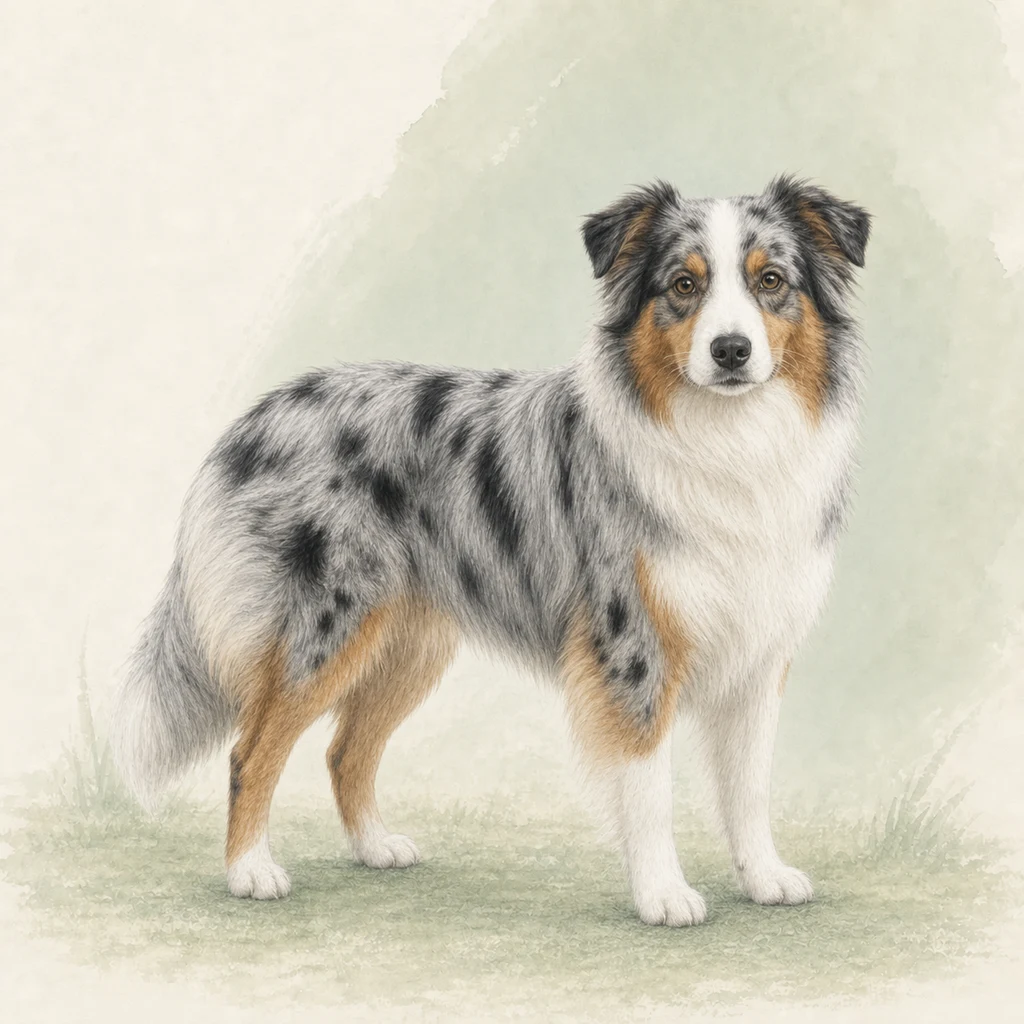
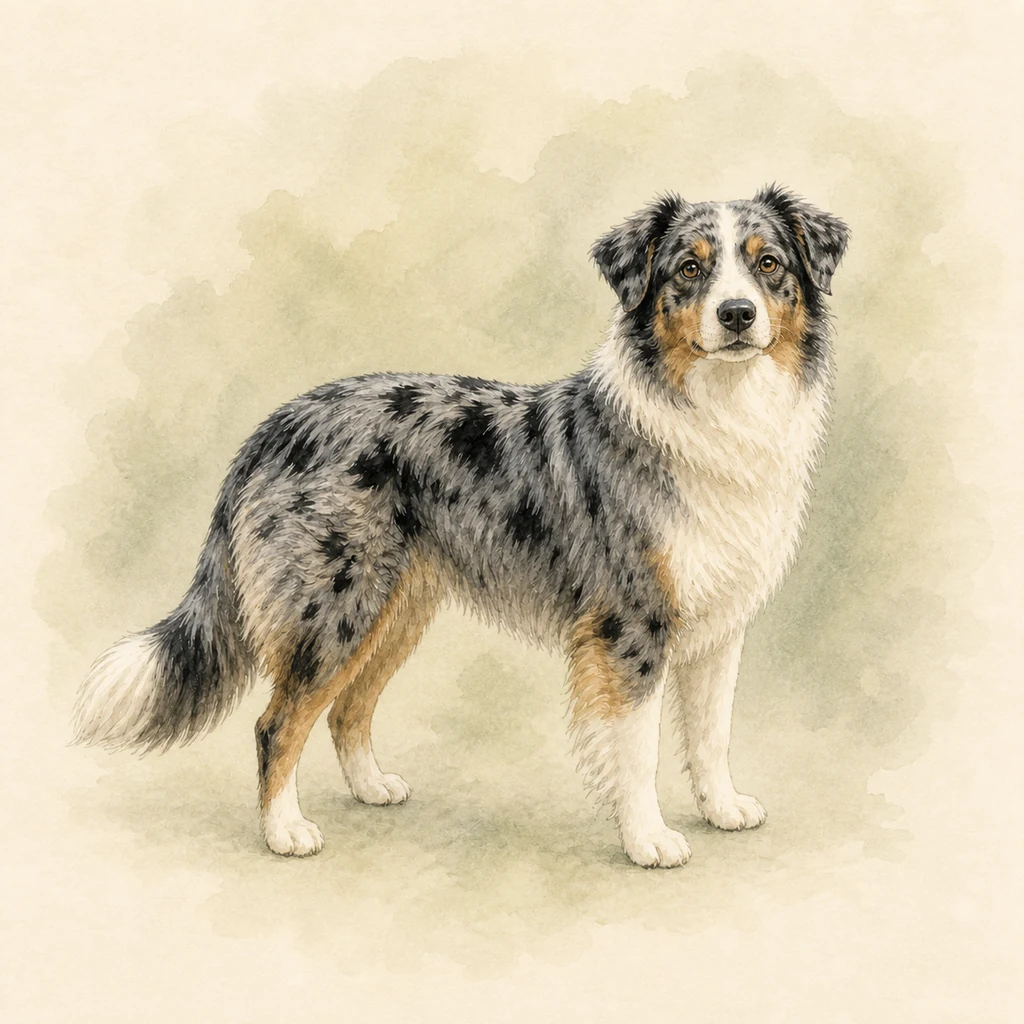
Correct breed feature and fact hierarchy

diff --git a/src/content/breed-features/data.ts b/src/content/breed-features/data.ts
@@ -873,20 +873,20 @@ export const breedFeatureSets = breedFeatureCollectionSchema.parse([
   },
   {
     slug: "bernese-mountain-dog",
-    intro: "스위스 농장에서 맡았던 운반과 소몰이, 큰 몸의 힘을 조절하는 방식, 장모 삼색 이중모의 특징을 먼저 살펴보세요.",
+    intro: "사람 가까이에서 보조를 맞추는 성향, 큰 몸의 힘을 조절하는 방식, 장모 삼색 이중모의 특징을 먼저 살펴보세요.",
     cards: [
       {
-        eyebrow: "수레와 농장 일",
-        title: "소를 몰고 수레를 끌며 농장의 여러 일을 함께했어요.",
-        description: "버니즈 마운틴 독은 베른 주변 농가에서 경비뿐 아니라 가축을 이동시키고 우유나 치즈를 실은 작은 수레를 끄는 다목적견으로 일했습니다. 빠른 속도보다 사람 곁에서 꾸준히 힘을 쓰는 역할이 이 견종의 배경을 잘 보여줘요.",
-        image: "/illustrations/v4/bernese-mountain-dog-feature-draft-work.webp",
-        alt: "스위스 산악 농장의 완만한 길에서 우유통을 실은 작은 수레를 차분히 끄는 성견 버니즈 마운틴 독 삽화",
+        eyebrow: "사람과 보조 맞추기",
+        title: "가족 가까이에서 함께 움직이고 맡은 일에 참여하려 할 수 있어요.",
+        description: "사람 곁에서 여러 일을 보조하던 배경은 오늘의 생활에서 가족의 움직임을 따라다니거나 함께하는 과제에 차분히 참여하는 모습으로 나타날 수 있어요. 가벼운 물건 찾기나 옮기기처럼 속도보다 협업에 집중하는 활동을 마련해보세요.",
+        image: "/illustrations/v4/bernese-mountain-dog-feature-shared-task.webp",
+        alt: "현대의 정원에서 보호자 곁을 걸으며 가벼운 천 바구니를 옮기는 성견 버니즈 마운틴 독 삽화",
         sourceUrls: ["https://www.fci.be/Nomenclature/Standards/045g02-en.pdf", "https://www.royalkennelclub.com/search/breeds-a-to-z/breeds/working/bernese-mountain-dog/"],
       },
       {
         eyebrow: "차분한 힘",
-        title: "큰 몸을 빠르게 쓰기보다 사람과 보조를 맞추는 힘이 중요했어요.",
-        description: "무거운 몸과 힘을 지닌 개가 농장 안에서 안전하게 일하려면 방향을 바꾸고 멈추는 신호에 협력하는 능력이 필요했습니다. 오늘의 생활에서도 넓은 회전 공간과 느슨한 리드, 천천히 멈추는 경험을 일찍 익히면 큰 체격을 다루는 데 도움이 돼요.",
+        title: "큰 몸과 힘을 천천히 멈추고 방향을 바꾸는 연습이 중요해요.",
+        description: "차분해 보이는 개체도 성견이 되면 몸의 무게와 힘만으로 좁은 동선이나 인사 상황에 부담을 줄 수 있어요. 넓은 회전 공간과 느슨한 리드, 천천히 멈추는 경험을 일찍 익히면 사람과 안전하게 보조를 맞추는 데 도움이 됩니다.",
         image: "/illustrations/v4/bernese-mountain-dog-feature-controlled-strength.webp",
         alt: "넓은 농장 마당의 두 표식 사이를 지난 뒤 보호자 곁에서 차분히 멈춘 성견 버니즈 마운틴 독 삽화",
         sourceUrls: ["https://www.fci.be/Nomenclature/Standards/045g02-en.pdf"],
@@ -903,20 +903,20 @@ export const breedFeatureSets = breedFeatureCollectionSchema.parse([
   },
   {
     slug: "dobermann",
-    intro: "사람 가까이에서 보호와 경계를 맡은 형성 배경, 빠른 판단과 협업, 짧은 피모가 만드는 추위 부담을 먼저 살펴보세요.",
+    intro: "보호자 중심의 주의, 빠른 판단과 협업, 짧은 피모가 만드는 추위 부담을 먼저 살펴보세요.",
     cards: [
       {
-        eyebrow: "가까운 보호 동행",
-        title: "멀리서 영역만 지키기보다 사람 곁을 따라 움직이도록 발전했어요.",
-        description: "도베르만은 19세기 말 독일에서 사람을 가까이 동행하며 주변을 경계할 수 있는 작업견으로 정립됐습니다. 보호자에게 집중하거나 낯선 접근을 세밀하게 살피는 모습이 나타날 수 있지만, 품종 이름만으로 개별 반응을 단정해서는 안 돼요.",
-        image: "/illustrations/v4/dobermann-feature-close-protection-history.webp",
-        alt: "19세기 말 독일 도시 거리에서 사람 곁을 차분히 동행하는 자연 귀와 긴 꼬리의 성견 도베르만 삽화",
+        eyebrow: "보호자 중심의 주의",
+        title: "주변을 살피면서도 보호자의 위치와 반응을 함께 확인할 수 있어요.",
+        description: "사람 가까이에서 주변을 살피던 역할은 생활에서도 낯선 접근을 빠르게 알아차리고 보호자의 반응을 확인하는 모습으로 나타날 수 있어요. 경계를 키우기보다 충분한 거리를 두고 본 뒤 보호자에게 시선을 돌리는 흐름을 반복해주세요.",
+        image: "/illustrations/v4/dobermann-feature-handler-focused-attention.webp",
+        alt: "현대 공원에서 멀리 있는 방문자를 확인한 뒤 보호자의 손 신호를 바라보는 자연 귀와 긴 꼬리의 성견 도베르만 삽화",
         sourceUrls: ["https://www.fci.be/Nomenclature/Standards/143g02-en.pdf", "https://www.royalkennelclub.com/search/breeds-a-to-z/breeds/working/dobermann/"],
       },
       {
         eyebrow: "빠른 판단과 협업",
         title: "주변을 살핀 뒤 보호자의 작은 신호로 빠르게 돌아올 수 있어요.",
-        description: "민첩한 체형과 높은 주의력은 여러 작업에서 사람의 지시에 신속히 반응하는 데 쓰였습니다. 현대 생활에서는 경계 반응을 키우기보다 자극을 본 뒤 보호자에게 시선을 돌리고 함께 이동하는 과제로 협업 방향을 잡아주세요.",
+        description: "빠른 주의 전환과 높은 협업 욕구가 함께 나타나는 개체는 짧고 분명한 신호 과제에 깊이 집중할 수 있어요. 자극을 본 뒤 보호자에게 돌아오고 함께 이동하는 과제로 민첩함을 안전한 협업 방향으로 연결해주세요.",
         image: "/illustrations/v4/dobermann-feature-handler-cooperation.webp",
         alt: "공원의 낮은 표식을 확인한 뒤 느슨한 리드로 보호자의 손 신호를 바라보는 자연 귀와 긴 꼬리의 성견 도베르만 삽화",
         sourceUrls: ["https://www.fci.be/Nomenclature/Standards/143g02-en.pdf"],
@@ -946,7 +946,7 @@ export const breedFeatureSets = breedFeatureCollectionSchema.parse([
       {
         eyebrow: "빠른 알림 반응",
         title: "작은 소리와 방문을 먼저 알아차려 목소리로 알릴 수 있어요.",
-        description: "저먼 스피츠는 집과 농가 주변을 살피며 낯선 변화가 생기면 사람에게 알리는 역할을 해왔습니다. 현관이나 창밖 자극에 빠르게 반응하는 개체라면 소리를 막는 것만으로 끝내지 말고, 확인 뒤 보호자를 바라보고 쉬는 자리로 이동하는 흐름을 알려주세요.",
+        description: "현관 소리나 창밖 움직임을 빠르게 알아차리고 목소리로 알리는 개체가 있어요. 소리를 막는 것만으로 끝내지 말고, 확인 뒤 보호자를 바라보고 쉬는 자리로 이동하는 흐름을 알려주세요.",
         image: "/illustrations/v4/german-spitz-feature-alert-reorientation.webp",
         alt: "현관 밖의 택배 소리를 확인한 뒤 보호자의 손 신호 쪽으로 고개를 돌리는 주황색 성견 포메라이언 삽화",
         sourceUrls: ["https://www.fci.be/Nomenclature/Standards/097g05-en.pdf", "https://www.royalkennelclub.com/search/breeds-a-to-z/breeds/toy/pomeranian/"],
@@ -963,22 +963,22 @@ export const breedFeatureSets = breedFeatureCollectionSchema.parse([
   },
   {
     slug: "shetland-sheepdog",
-    intro: "바람 센 섬의 소형 목양견 배경, 움직임과 소리에 대한 빠른 주의 전환, 길고 풍성한 이중모를 먼저 살펴보세요.",
+    intro: "달리는 대상의 경로를 읽는 모습, 소리와 작은 신호에 대한 빠른 반응, 길고 풍성한 이중모를 먼저 살펴보세요.",
     cards: [
       {
-        eyebrow: "섬의 소형 목양견",
-        title: "작은 체격으로 섬 농장의 가축과 주변 변화를 세밀하게 살폈어요.",
-        description: "셔틀랜드 시프독은 자원이 제한되고 바람이 거센 셰틀랜드 제도의 농가에서 작은 가축을 관리하고 주변 변화를 알리던 개들을 바탕으로 발전했습니다. 러프 콜리와 닮았지만 훨씬 작은 몸 안에 민첩한 목양 작업의 배경이 담겨 있어요.",
-        image: "/illustrations/v4/shetland-sheepdog-feature-island-herding.webp",
-        alt: "바람 부는 셰틀랜드 제도의 낮은 돌담 농장에서 작은 양 떼를 살피는 세이블 앤 화이트 성견 셔틀랜드 시프독 삽화",
+        eyebrow: "몰이와 움직임",
+        title: "달리는 대상의 경로를 읽고 따라가거나 앞을 막으려 할 수 있어요.",
+        description: "가축의 방향을 세밀하게 살피던 역할은 생활에서 자전거·달리는 사람·다른 동물의 움직임에 빠르게 집중하는 모습으로 나타날 수 있어요. 충분한 거리를 확보하고 움직임을 본 뒤 보호자에게 돌아오는 선택을 차분히 알려주세요.",
+        image: "/illustrations/v4/shetland-sheepdog-feature-alert-reorientation.webp",
+        alt: "멀리 지나가는 자전거를 본 뒤 넓은 거리를 둔 채 보호자의 손 신호로 고개를 돌리는 성견 셔틀랜드 시프독 삽화",
         sourceUrls: ["https://www.fci.be/Nomenclature/Standards/088g01-en.pdf", "https://www.royalkennelclub.com/search/breeds-a-to-z/breeds/pastoral/shetland-sheepdog/"],
       },
       {
-        eyebrow: "세밀한 신호 읽기",
-        title: "움직임과 소리를 빠르게 읽고 사람의 작은 신호에도 반응할 수 있어요.",
-        description: "가축과 농장 주변을 함께 살피는 일에서는 먼 움직임과 소리, 사람의 방향 신호를 놓치지 않는 집중력이 중요했습니다. 자전거나 달리는 대상을 예민하게 보는 개체에게는 충분한 거리를 두고 보호자를 바라본 뒤 차분한 자리로 이동하는 선택을 마련해주세요.",
-        image: "/illustrations/v4/shetland-sheepdog-feature-alert-reorientation.webp",
-        alt: "멀리 지나가는 자전거를 본 뒤 넓은 거리를 둔 채 보호자의 손 신호로 고개를 돌리는 성견 셔틀랜드 시프독 삽화",
+        eyebrow: "소리와 작은 신호",
+        title: "작은 소리와 사람의 표정 변화를 빠르게 알아차릴 수 있어요.",
+        description: "주변 소리와 사람의 작은 몸짓을 함께 읽는 개체는 현관음이나 가족의 움직임에도 빠르게 반응할 수 있어요. 예측 가능한 휴식 자리를 마련하고, 소리를 확인한 뒤 짧은 손 신호에 집중하고 다시 쉬는 흐름을 만들어주세요.",
+        image: "/illustrations/v4/shetland-sheepdog-feature-sound-cue.webp",
+        alt: "현대의 조용한 현관 매트에서 복도 소리를 확인한 뒤 보호자의 손 신호를 바라보는 성견 셔틀랜드 시프독 삽화",
         sourceUrls: ["https://www.fci.be/Nomenclature/Standards/088g01-en.pdf"],
       },
       {
@@ -993,30 +993,30 @@ export const breedFeatureSets = breedFeatureCollectionSchema.parse([
   },
   {
     slug: "australian-shepherd",
-    intro: "이름과 다른 미국 목장의 형성 배경, 가축의 흐름을 읽는 넓은 움직임, 높은 활동 뒤 휴식으로 전환하는 능력을 먼저 살펴보세요.",
+    intro: "움직이는 대상에 대한 몰이 집중, 사람과 계속 주고받는 과제, 높은 활동 뒤 휴식으로 전환하는 능력을 먼저 살펴보세요.",
     cards: [
       {
-        eyebrow: "미국에서 정립된 목장견",
-        title: "이름과 달리 오늘의 품종은 미국 서부 목장에서 자리 잡았어요.",
-        description: "오스트레일리안 셰퍼드라는 이름에는 여러 목양견의 이동 역사가 얽혀 있지만, 현재 알려진 품종의 형태와 작업 능력은 미국에서 정립됐습니다. 넓은 목장에서 목자와 함께 가축을 이동시키는 다목적 작업견이라는 배경을 먼저 이해해야 해요.",
-        image: "/illustrations/v4/australian-shepherd-feature-american-ranch-history.webp",
-        alt: "미국 서부의 넓은 목장에서 목장주와 소 떼 가까이 움직이는 자연스러운 긴 꼬리의 블루멀 성견 오스트레일리안 셰퍼드 삽화",
+        eyebrow: "움직임을 읽는 몰이",
+        title: "달리는 대상의 방향을 읽고 따라가거나 앞을 막으려 할 수 있어요.",
+        description: "가축의 흐름을 읽던 작업 특성은 생활에서 아이·자전거·다른 동물의 움직임에 강하게 집중하는 모습으로 나타날 수 있어요. 쫓기 시작한 뒤 제지하기보다 넉넉한 거리를 두고 보호자를 확인하거나 다른 경로로 전환하는 경험을 먼저 쌓아주세요.",
+        image: "/illustrations/v4/australian-shepherd-feature-movement-focus.webp",
+        alt: "현대 공원에서 멀리 지나가는 자전거를 확인한 뒤 보호자의 손 신호를 바라보는 긴 꼬리의 블루멀 성견 오스트레일리안 셰퍼드 삽화",
         sourceUrls: ["https://www.fci.be/Nomenclature/Standards/342g01-en.pdf", "https://www.royalkennelclub.com/search/breeds-a-to-z/breeds/pastoral/australian-shepherd/"],
       },
       {
-        eyebrow: "가축 흐름 읽기",
-        title: "넓게 돌아 나가며 가축의 움직임을 읽고 열린 길로 유도했어요.",
-        description: "목장 일에서는 한 지점만 빠르게 쫓기보다 여러 가축의 방향을 살피고 사람의 신호에 맞춰 위치를 바꾸는 능력이 중요했습니다. 생활에서도 달리는 대상에 집중하거나 움직임을 통제하려는 모습이 보일 수 있어, 안전한 거리와 다른 과제로 전환하는 경험이 필요해요.",
-        image: "/illustrations/v4/australian-shepherd-feature-stock-movement.webp",
-        alt: "넓은 목초지에서 목장주의 팔 신호를 보며 세 마리 소를 열린 문 쪽으로 유도하는 긴 꼬리의 성견 오스트레일리안 셰퍼드 삽화",
+        eyebrow: "지속적인 협업",
+        title: "한 번의 운동보다 사람과 계속 주고받는 과제에 깊이 몰입할 수 있어요.",
+        description: "사람의 방향 신호를 읽으며 위치를 바꾸는 데 집중하는 개체는 목적 없는 달리기보다 찾기·구분하기·멈추기를 이어가는 과제에서 만족을 얻을 수 있어요. 과제의 난도와 시간을 조절해 흥분만 높아지지 않도록 살펴주세요.",
+        image: "/illustrations/v4/australian-shepherd-feature-cooperative-task.webp",
+        alt: "현대 공원의 낮은 표식 사이에서 보호자의 손 신호를 확인하는 긴 꼬리의 블루멀 성견 오스트레일리안 셰퍼드 삽화",
         sourceUrls: ["https://www.fci.be/Nomenclature/Standards/342g01-en.pdf"],
       },
       {
         eyebrow: "과제와 회복 전환",
         title: "많이 달리는 것만큼 일을 마친 뒤 스스로 쉬는 전환도 중요해요.",
-        description: "오래 움직이며 계속 다음 신호를 기다리던 작업 배경 때문에 몸과 머리를 함께 쓰는 과제에 깊이 몰입하는 개체가 있어요. 냄새 찾기와 방향 구분처럼 목적 있는 활동을 제공하되, 끝 신호 뒤 매트에서 호흡을 낮추는 시간까지 한 흐름으로 구성해주세요.",
+        description: "몸과 머리를 함께 쓰는 과제에 깊이 몰입한 뒤에도 다음 일을 기다리며 쉽게 긴장을 풀지 못하는 개체가 있어요. 냄새 찾기와 방향 구분처럼 목적 있는 활동을 제공하되, 끝 신호 뒤 매트에서 호흡을 낮추는 시간까지 한 흐름으로 구성해주세요.",
         image: "/illustrations/v4/australian-shepherd-feature-work-to-rest.webp",
-        alt: "냄새와 방향 과제를 마친 뒤 목장 현관의 매트에서 쉬고 보호자가 낮은 표식을 정리하는 성견 오스트레일리안 셰퍼드 삽화",
+        alt: "방향 과제를 마친 뒤 현대 가정의 현관 매트에서 쉬고 보호자가 낮은 표식을 정리하는 긴 꼬리의 블루멀 성견 오스트레일리안 셰퍼드 삽화",
         sourceUrls: ["https://www.fci.be/Nomenclature/Standards/342g01-en.pdf", "https://www.royalkennelclub.com/search/breeds-a-to-z/breeds/pastoral/australian-shepherd/"],
       },
     ],

diff --git a/src/content/breeds/detail-batch-c.ts b/src/content/breeds/detail-batch-c.ts
@@ -103,7 +103,7 @@ export const detailBatchC = [
   {
     slug: "bernese-mountain-dog", contentStatus: "mvp-editorial-draft", nameKo: "버니즈 마운틴 독", nameEn: "Bernese Mountain Dog", tagline: "온화한 인상 뒤에는 수레를 끌고 소를 몰던 큰 농장견의 힘과, 짧을 수 있는 생애를 감당할 책임이 있어요.",
     palette: { primary: "#b68f73", secondary: "#d5dfd2", ink: "#342f2d" }, illustration: "/illustrations/v2/bernese-mountain-dog-card-front.webp", catalog: { group: "guardian-working", discoveryTags: ["스위스 농장견", "운반과 소몰이", "대형 장모"] }, historyVisual: { src: "/illustrations/v3/bernese-mountain-dog-history.webp", alt: "스위스 농장에서 수레 운반과 소몰이를 돕는 버니즈 마운틴 독을 그린 편집 수채화" },
-    identity: { origin: "스위스·베른", lineage: "베른의 장모 삼색 농장견 계통", originalRole: "농장 경비, 수레 운반과 소몰이를 맡은 다목적견", size: "대형 · 약 58~70cm, 35~55kg", lifespan: "10년 미만일 수 있음(RKC 참고, 개체별 차이 있음)" },
+    identity: { origin: "스위스·베른", lineage: "스위스 산악 농장견 계통", originalRole: "농장 경비·소몰이·수레 운반", size: "대형 · 약 58~70cm, 35~55kg", lifespan: "10년 미만일 수 있음(RKC 참고, 개체별 차이 있음)" },
     behaviorClues: { originalRole: "농장에서 사람 가까이 일하며 힘을 조절해 수레를 끌고 가축 이동과 경비를 도왔습니다.", today: "가족과 협력하고 차분히 힘을 쓰는 활동을 선호할 수 있지만, 큰 체격과 성장 속도는 별도의 관리가 필요합니다.", guardianContext: "성장기 관절에 무리가 가지 않게 운동을 조절하고, 큰 몸으로도 천천히 인사하고 멈추는 생활 기술을 가르치세요." },
     story: { opening: "버니즈 마운틴 독은 스위스 베른 주변의 농가에서 경비와 소몰이, 우유와 치즈를 나르는 작은 수레 운반까지 맡았던 장모 삼색 농장견입니다. 산악 지역의 농장 안에서 사람 가까이 움직이며 여러 일을 수행하는 튼튼함과 협력성이 중요했습니다.", roleToHome: "19세기 말부터 지역 농장견을 보존하고 품종의 형태를 정리하려는 움직임이 이어지며 오늘의 버니즈 마운틴 독이 자리 잡았습니다. 현재는 주로 반려견으로 지내지만 사람과 보조를 맞추는 활동이나 차분하게 힘을 쓰는 과제를 즐기는 모습이 개체에 따라 나타날 수 있어요.", reality: "넓은 공간만으로 충분하지 않습니다. 더위 관리, 큰 비용, 이동 수단과 평균적으로 짧을 수 있는 생애까지 현실적으로 준비해야 해요." },
     tendencies: { activity: { label: "중간", note: "꾸준한 산책과 무리 없는 근력 활동이 필요해요." }, mentalStimulation: { label: "중간", note: "사람과 천천히 맞추는 운반·찾기 과제가 어울려요." }, independence: { label: "낮은 편", note: "가족 가까이에서 협력하는 것을 선호할 수 있어요." }, socialConnection: { label: "높은 편", note: "사람과 부드럽게 교감하는 경향이 나타날 수 있어요." }, alerting: { label: "중간", note: "농장 경비 배경으로 주변 변화를 알릴 수 있어요." }, grooming: { label: "높은 편", note: "큰 몸의 장모 이중모라 빗질과 건조 부담이 커요." } },
@@ -114,7 +114,7 @@ export const detailBatchC = [
   {
     slug: "dobermann", contentStatus: "mvp-editorial-draft", nameKo: "도베르만", nameEn: "Dobermann", tagline: "날렵한 실루엣보다 중요한 것은 사람 곁에서 경계하고 협력하도록 만들어진 작업견의 높은 책임감이에요.",
     palette: { primary: "#8f7667", secondary: "#d7ded0", ink: "#302c2a" }, illustration: "/illustrations/v2/dobermann-card-front.webp", catalog: { group: "guardian-working", discoveryTags: ["독일 보호 작업견", "높은 협업", "구조화된 사회화"] }, historyVisual: { src: "/illustrations/v3/dobermann-history.webp", alt: "19세기 독일 도시에서 사람을 가까이 동행하며 경계하는 도베르만을 그린 편집 수채화" },
-    identity: { origin: "독일·튀링겐", lineage: "독일 보호·작업견 계통", originalRole: "사람을 가까이 동행하며 보호·경계한 작업견", size: "대형 · 약 63~72cm, 32~45kg", lifespan: "10년 이상(RKC 참고, 개체별 차이 있음)" },
+    identity: { origin: "독일·튀링겐", lineage: "독일 보호 작업견 계통", originalRole: "보호·경계견", size: "대형 · 약 63~72cm, 32~45kg", lifespan: "10년 이상(RKC 참고, 개체별 차이 있음)" },
     behaviorClues: { originalRole: "사람 곁을 지키며 주변을 빠르게 판단하고 지시에 즉시 반응하는 능력이 중요했습니다.", today: "보호자에게 집중하거나 낯선 접근에 민감할 수 있지만 안정성은 유전·사회화·학습 경험의 영향을 함께 받습니다.", guardianContext: "강한 경계 반응을 부추기지 말고 충분한 거리에서 사람과 개를 관찰하며 보호자에게 돌아오는 행동을 보상하세요." },
     story: { opening: "도베르만은 19세기 말 독일 튀링겐의 프리드리히 루이스 도베르만과 초기 번식가들이 여러 지역 작업견을 바탕으로 정립한 견종입니다. 사람을 가까이 동행하며 주변을 경계하고 필요할 때 지시에 빠르게 반응하는 보호·작업 능력이 중요하게 여겨졌습니다.", roleToHome: "이후 경찰견과 경비견을 비롯한 여러 분야의 작업견으로 활용되며 날렵하고 강한 체형, 높은 주의력과 협업 능력이 품종의 특징으로 자리 잡았습니다. 오늘날에는 반려견으로도 지내며 보호자에게 집중하거나 낯선 접근을 세밀하게 살피는 모습이 나타날 수 있지만, 실제 안정성은 유전과 사회화·학습 경험을 함께 봐야 해요.", reality: "외모와 경비 이미지만으로 선택해서는 안 됩니다. 매일의 운동, 섬세한 사회화, 큰 체격과 건강 검진 비용을 감당해야 해요." },
     tendencies: { activity: { label: "높은 편", note: "규칙적인 달리기보다 다양한 신체 활동과 회복이 필요해요." }, mentalStimulation: { label: "높은 편", note: "보호자와 함께 해결하는 구조화된 과제가 중요해요." }, independence: { label: "중간", note: "상황 판단과 보호자 집중이 함께 나타날 수 있어요." }, socialConnection: { label: "높은 편", note: "가족과 긴밀한 협업을 선호할 수 있어요." }, alerting: { label: "높은 편", note: "낯선 접근을 빠르게 알아차릴 수 있어요." }, grooming: { label: "낮은 편", note: "짧은 털은 관리가 간단하지만 추위와 피부 상태를 살펴야 해요." } },

diff --git a/src/content/breeds/detail-batch-d.ts b/src/content/breeds/detail-batch-d.ts
@@ -30,16 +30,27 @@ const drafts: Draft[] = [
 const levelNote: Record<Label, string> = { "낮은 편": "상대적으로 부담이 낮을 수 있지만 개체별 확인이 필요해요.", "중간": "일상에서 꾸준히 충족하고 개체 반응을 살펴야 해요.", "높은 편": "충분한 시간과 구체적인 관리 계획이 필요해요.", "개체별 확인 필요": "품종만으로 판단하지 말고 해당 개체를 직접 확인하세요." };
 
 const conciseLineages: Partial<Record<string, string>> = {
-  "german-spitz": "독일 스피츠 다섯 바라이어티",
-  "shetland-sheepdog": "셰틀랜드 소형 목양견 계통",
-  "australian-shepherd": "미국 서부 목장견 계통",
+  "german-spitz": "독일 스피츠 계통",
+  "shetland-sheepdog": "셰틀랜드 목양견 계통",
+  "australian-shepherd": "미국 목장견 계통",
+};
+
+const conciseRoles: Partial<Record<string, string>> = {
+  "german-spitz": "알림견·반려견",
+  "shetland-sheepdog": "목양견·알림견",
+  "australian-shepherd": "목양견",
+};
+
+const additionalSources: Partial<Record<string, Breed["sources"]>> = {
+  "shetland-sheepdog": [{ title: "Shetland Sheepdog", organization: "American Kennel Club", url: "https://www.akc.org/dog-breeds/shetland-sheepdog/", checkedAt }],
+  "australian-shepherd": [{ title: "Australian Shepherd", organization: "American Kennel Club", url: "https://www.akc.org/dog-breeds/australian-shepherd/", checkedAt }],
 };
 
 export const detailBatchD = drafts.map((d) => ({
   slug: d.slug, contentStatus: "mvp-editorial-draft" as const, nameKo: d.nameKo, nameEn: d.nameEn, tagline: d.tagline,
   palette: { primary: d.colors[0], secondary: d.colors[1], ink: d.colors[2] }, illustration: `/illustrations/v2/${d.slug}-card.webp`,
   catalog: { group: d.group, discoveryTags: d.tags }, historyVisual: { src: `/illustrations/v3/${d.slug}-history.webp`, alt: `${d.nameKo}의 원래 역할과 생활 환경을 표현한 편집 수채화` },
-  identity: { origin: d.origin, lineage: conciseLineages[d.slug] ?? d.lineage, originalRole: d.role, size: d.size, lifespan: d.lifespan },
+  identity: { origin: d.origin, lineage: conciseLineages[d.slug] ?? d.lineage, originalRole: conciseRoles[d.slug] ?? d.role, size: d.size, lifespan: d.lifespan },
   behaviorClues: { originalRole: d.history, today: d.present, guardianContext: d.guide },
   story: { opening: d.storyOpening ?? `${withTopicParticle(d.nameKo)} ${d.lineage}입니다. ${d.history}`, roleToHome: d.storyContinuation ?? `${d.present} ${d.guide}`, reality: d.reality },
   tendencies: {
@@ -50,5 +61,5 @@ export const detailBatchD = drafts.map((d) => ({
   careNotes: d.care, healthEditorialNote: healthDraft,
   daySnapshot: [{ time: "아침", title: "몸과 환경 확인", description: "날씨와 컨디션에 맞춰 산책을 시작해요." }, { time: "낮", title: "역할을 닮은 놀이", description: d.guide }, { time: "저녁", title: "쉬고 기록하기", description: "피모와 몸 상태를 보고 조용히 쉬어요." }],
   related: [{ slug: d.related[0], reason: d.relatedCopy[0] }, { slug: d.related[1], reason: d.relatedCopy[1] }],
-  sources: [{ title: `FCI Standard: ${d.nameEn}`, organization: "Fédération Cynologique Internationale", url: `https://www.fci.be/Nomenclature/Standards/${d.fci}`, checkedAt }, { title: d.nameEn, organization: "The Royal Kennel Club", url: `https://www.royalkennelclub.com/search/breeds-a-to-z/breeds/${d.rkc}/`, checkedAt }],
+  sources: [{ title: `FCI Standard: ${d.nameEn}`, organization: "Fédération Cynologique Internationale", url: `https://www.fci.be/Nomenclature/Standards/${d.fci}`, checkedAt }, { title: d.nameEn, organization: "The Royal Kennel Club", url: `https://www.royalkennelclub.com/search/breeds-a-to-z/breeds/${d.rkc}/`, checkedAt }, ...(additionalSources[d.slug] ?? [])],
 })) satisfies Breed[];

diff --git a/src/lib/breed-fact-presentation.test.ts b/src/lib/breed-fact-presentation.test.ts
@@ -144,6 +144,20 @@ describe("breed fact presentation", () => {
     }
   });
 
+  it("presents compact measurements for the current five-breed rollout batch", () => {
+    const expected = {
+      "bernese-mountain-dog": { size: "58~70cm · 35~55kg", height: "58~70cm", weight: "35~55kg" },
+      dobermann: { size: "63~72cm · 32~45kg", height: "63~72cm", weight: "32~45kg" },
+      "german-spitz": { size: "바라이어티별 18~55cm", height: "바라이어티별 18~55cm", weight: undefined },
+      "shetland-sheepdog": { size: "33~41cm · 7~11kg", height: "33~41cm", weight: "7~11kg" },
+      "australian-shepherd": { size: "46~58cm · 18~29kg", height: "46~58cm", weight: "18~29kg" },
+    } as const;
+
+    for (const [slug, facts] of Object.entries(expected)) {
+      expect(getBreedFactPresentation(getBreed(slug)!)).toMatchObject(facts);
+    }
+  });
+
   it("keeps source and editorial wording out of every visible fact", () => {
     const bannedCopy = /(참고|출처|검토|확인|상담|개체|자료|알려짐)/u;
 

diff --git a/src/lib/breed-fact-presentation.ts b/src/lib/breed-fact-presentation.ts
@@ -150,7 +150,30 @@ const breedFactOverrides: Record<string, BreedFactOverride> = {
     size: "6.3~8.1kg",
     weight: "6.3~8.1kg",
   },
-  "german-spitz": { size: "바라이어티별 18~55cm" },
+  "bernese-mountain-dog": {
+    size: "58~70cm · 35~55kg",
+    height: "58~70cm",
+    weight: "35~55kg",
+  },
+  dobermann: {
+    size: "63~72cm · 32~45kg",
+    height: "63~72cm",
+    weight: "32~45kg",
+  },
+  "german-spitz": {
+    size: "바라이어티별 18~55cm",
+    height: "바라이어티별 18~55cm",
+  },
+  "shetland-sheepdog": {
+    size: "33~41cm · 7~11kg",
+    height: "33~41cm",
+    weight: "7~11kg",
+  },
+  "australian-shepherd": {
+    size: "46~58cm · 18~29kg",
+    height: "46~58cm",
+    weight: "18~29kg",
+  },
   "bull-terrier": { size: "53~56cm · 23~32kg" },
 };
 

diff --git a/docs/image-prompts-swiss-german-herding-2026-08-21.md b/docs/image-prompts-swiss-german-herding-2026-08-21.md
@@ -1,41 +1,46 @@
 # 버니즈·도베르만·저먼 스피츠·셔틀랜드 시프독·오스트레일리안 셰퍼드 특징 이미지 기록
 
 > 제작일: 2026-08-21
-> 생성 방식: Codex 내장 ImageGen 신규 생성, 저먼 스피츠 피모 장면 1회 부분 수정
+> 생성 방식: Codex 내장 ImageGen 신규 생성, 저먼 스피츠 피모 장면 1회 부분 수정, 생활·대표·역사 이미지 8개 재생성
 > 적용 페이지: `/breeds/bernese-mountain-dog`, `/breeds/dobermann`, `/breeds/german-spitz`, `/breeds/shetland-sheepdog`, `/breeds/australian-shepherd`
 
 ## 근거와 선정 주제
 
-- 버니즈 마운틴 독: FCI 표준 45와 RKC 품종 안내를 바탕으로 스위스 농장의 수레 운반·소몰이, 큰 힘을 사람과 맞추는 방식, 장모 삼색 이중모를 선정했다.
-- 도베르만: FCI 표준 143과 RKC 품종 안내를 바탕으로 사람 가까이의 보호 동행, 빠른 판단과 협업, 몸에 밀착된 짧은 피모와 추위 부담을 선정했다.
+- 버니즈 마운틴 독: FCI 표준 45와 RKC 품종 안내를 바탕으로 사람 가까이에서 보조를 맞추는 모습, 큰 힘을 조절하는 방식, 장모 삼색 이중모를 선정했다.
+- 도베르만: FCI 표준 143과 RKC 품종 안내를 바탕으로 보호자 중심의 주의, 빠른 판단과 협업, 몸에 밀착된 짧은 피모와 추위 부담을 선정했다.
 - 저먼 스피츠: FCI 표준 97과 RKC 포메라이언 안내를 바탕으로 다섯 크기 바라이어티, 집과 농가의 알림 역할, 곧게 서는 이중모를 선정했다.
-- 셔틀랜드 시프독: FCI 표준 88과 RKC 품종 안내를 바탕으로 셰틀랜드 제도의 소형 목양견 배경, 움직임과 소리에 대한 세밀한 주의, 긴 이중모를 선정했다.
-- 오스트레일리안 셰퍼드: FCI 표준 342와 RKC 품종 안내를 바탕으로 미국에서 정립된 목장견 배경, 가축 흐름을 읽는 넓은 움직임, 과제 뒤 휴식으로 전환하는 능력을 선정했다.
+- 셔틀랜드 시프독: FCI 표준 88과 RKC 품종 안내를 바탕으로 달리는 대상의 경로를 읽는 모습, 소리와 작은 신호에 대한 빠른 반응, 긴 이중모를 선정했다.
+- 오스트레일리안 셰퍼드: FCI 표준 342와 RKC 품종 안내를 바탕으로 움직이는 대상에 대한 몰이 집중, 사람과 지속적으로 주고받는 과제, 과제 뒤 휴식으로 전환하는 능력을 선정했다.
 
-카피는 각 카드의 첫 문장에서 견종 지식을 설명하고 두 번째 문장에서 생활의 의미를 연결했다. 건강·질환을 특징 카드 주제로 사용하지 않았으며 피모는 견종 인식이나 반복 관리 부담이 핵심인 경우에만 포함했다.
+역사 섹션은 견종의 형성 시기·지역·원래 역할을 담당하고, 특징 카드는 그 역할과 배경이 현재 생활 환경에서 나타날 수 있는 모습만 담당하도록 분리했다. 건강·질환을 특징 카드 주제로 사용하지 않았으며 피모는 견종 인식이나 반복 관리 부담이 핵심인 경우에만 포함했다.
 
 ## 공통 생성 프롬프트
 
 모든 이미지는 견종 상세 특징 카드용 4:3 가로 편집 삽화로 요청했다. 따뜻한 아이보리 종이 위의 구아슈·수채화와 섬세한 색연필 질감, 저채도 세이지·베이지 색조, 성견의 실제 비율, 귀·발·꼬리가 잘리지 않는 넉넉한 여백을 공통으로 적용했다. 텍스트·로고·워터마크·카드 외곽선, 강제 접촉, 공포, 공격 장면, 자견 비율과 다른 견종의 체형 혼합을 제외했다.
 
+오스트레일리안 셰퍼드 대표·역사·특징 이미지 다섯 장에는 첫 특징 결과를 다음 장면의 이미지 참조로 사용했다. 중형의 블루멀 성견, 좁고 대칭적인 흰 얼굴 블레이즈, 흰 가슴과 앞발, 구리색 눈썹·볼 포인트, 갈색 눈, 반쯤 접힌 귀, 흰 끝이 있는 자연스러운 긴 꼬리를 동일 개체 조건으로 고정했다.
+
 ## 장면별 최종 프롬프트 요약과 파일
 
-- `bernese-mountain-dog-feature-draft-work.webp`: 스위스 산악 농장의 완만한 길에서 성견 버니즈가 우유통을 실은 가벼운 수레를 차분히 끄는 장면.
+- `australian-shepherd-card.webp`: 같은 블루멀 성견의 전신과 실제 중형 체형을 보여주는 정사각형 대표 이미지.
+- `australian-shepherd-history.webp`: 같은 성견이 미국 서부 목장의 열린 문으로 작은 양 무리를 유도하는 역사 이미지.
+
+- `bernese-mountain-dog-feature-shared-task.webp`: 현대 정원에서 보호자 곁을 걸으며 가벼운 빈 천 바구니를 옮기는 장면.
 - `bernese-mountain-dog-feature-controlled-strength.webp`: 넓은 농장 마당의 표식 사이를 이동한 뒤 보호자 곁에서 멈추는 장면.
 - `bernese-mountain-dog-feature-tricolor-coat-care.webp`: 서늘한 현관에서 장모 삼색 이중모를 수건으로 말리고 빗질하는 장면.
-- `dobermann-feature-close-protection-history.webp`: 19세기 말 독일 도시에서 자연 귀와 긴 꼬리의 성견 도베르만이 사람 곁을 차분히 동행하는 장면.
+- `dobermann-feature-handler-focused-attention.webp`: 현대 공원에서 멀리 있는 방문자를 확인한 뒤 보호자의 손 신호를 바라보는 장면.
 - `dobermann-feature-handler-cooperation.webp`: 낮은 표식을 확인한 뒤 보호자의 작은 손 신호로 돌아오는 장면.
 - `dobermann-feature-short-coat-cold.webp`: 겨울 산책 전 몸에 잘 맞는 보온 외투를 준비하는 장면.
 - `german-spitz-feature-five-varieties.webp`: 울프스피츠·자이언트·미디엄·미니어처·포메라이언을 큰 순서부터 나란히 둔 자연사 도판.
 - `german-spitz-feature-alert-reorientation.webp`: 현관 밖 소리를 확인한 포메라이언이 보호자의 손 신호로 고개를 돌리는 장면.
 - `german-spitz-feature-double-coat-care.webp`: 주황색 포메라이언의 풍성한 겉털과 속털을 작은 구역으로 나누어 빗는 장면. 첫 결과의 털을 나눈 부분이 삭발처럼 보여 피부 노출 없이 연속된 피모로 1회 수정했다.
-- `shetland-sheepdog-feature-island-herding.webp`: 바람 부는 셰틀랜드 제도의 낮은 돌담 농장에서 작은 양을 살피는 장면.
 - `shetland-sheepdog-feature-alert-reorientation.webp`: 멀리 지나가는 자전거를 본 뒤 충분한 거리에서 보호자를 바라보는 장면.
+- `shetland-sheepdog-feature-sound-cue.webp`: 현대의 조용한 현관에서 복도 소리를 확인한 뒤 보호자의 작은 손 신호를 바라보는 장면.
 - `shetland-sheepdog-feature-long-coat-care.webp`: 귀 뒤와 겨드랑이의 긴 이중모를 나누어 빗는 장면.
-- `australian-shepherd-feature-american-ranch-history.webp`: 미국 서부 목장에서 목장주와 소 가까이 움직이는 자연스러운 긴 꼬리의 블루멀 성견 장면.
-- `australian-shepherd-feature-stock-movement.webp`: 넓은 목초지에서 소의 흐름을 읽고 열린 문으로 유도하는 장면.
-- `australian-shepherd-feature-work-to-rest.webp`: 냄새와 방향 과제를 마친 뒤 매트에서 쉬고 보호자가 표식을 정리하는 장면.
+- `australian-shepherd-feature-movement-focus.webp`: 현대 공원에서 멀리 지나가는 자전거를 확인한 뒤 보호자의 신호로 주의를 돌리는 장면.
+- `australian-shepherd-feature-cooperative-task.webp`: 현대 공원의 낮은 표식 사이에서 보호자의 방향 신호를 읽는 장면.
+- `australian-shepherd-feature-work-to-rest.webp`: 같은 개체가 과제를 마친 뒤 가정의 매트에서 쉬고 보호자가 표식을 정리하는 장면.
 
 ## 검수 결과
 
-15개 자산을 모두 1200×900 WebP로 내보냈고 각 파일은 111~235KB다. 버니즈와 도베르만은 큰 체격의 차이, 저먼 스피츠는 다섯 바라이어티의 성견 크기 차이, 셔틀랜드 시프독은 러프 콜리보다 작은 체급, 오스트레일리안 셰퍼드는 중형 목장견 체형과 자연스러운 긴 꼬리가 읽히는지 나란히 확인했다. 세 장의 장면과 정보가 견종 안에서 서로 중복되지 않고 카드 크롭 안전 여백을 유지한다.
+특징 이미지 15개는 1200×900 WebP, 오스트레일리안 셰퍼드 대표 이미지는 1024×1024 WebP, 역사 이미지는 1536×1024 WebP로 내보냈다. 버니즈와 도베르만은 현대 생활의 협업·주의 장면, 저먼 스피츠는 다섯 바라이어티의 성견 크기 차이, 셔틀랜드 시프독은 러프 콜리보다 작은 체급과 소리 반응 장면이 읽히는지 확인했다. 오스트레일리안 셰퍼드 다섯 장은 같은 블루멀·흰색·구리색 배색과 자연스러운 긴 꼬리, 같은 얼굴 무늬가 이어지며 대표 외형·역사·서로 다른 생활 주제를 보여주는지 나란히 검수했다.

diff --git a/docs/project-status.md b/docs/project-status.md
@@ -73,7 +73,7 @@ Dog Atlas(살아 있는 견종도감)는 강아지를 고려하는 사람이 외
 ### 견종 상세 `/breeds/[slug]`
 
 - 376개 상세 모두 말티즈에서 검증한 간결한 정보 위계를 공통으로 사용한다. 첫 화면은 견종명과 대표 이미지부터 보여주고 영문명·지역·등록 상태·한 줄 소개·상단 실행 버튼은 두지 않는다.
-- 34개 상세는 견종별 편집 카드 구조를 적용한다. 섹션은 `견종을 이해하는 출발점`과 `<견종명>을 먼저 알아볼 세 가지`로 시작하고, 각 카드가 역사적 역할·특징적인 행동·체형·피모처럼 해당 견종을 구별하는 지식을 먼저 설명한 뒤 생활 환경에서의 의미를 연결한다. 피모는 일괄 제외하거나 필수로 넣지 않고 견종 인식이나 반복 관리 부담의 핵심일 때 유지한다. 사용자가 남은 전체 도감 확장을 승인했으며, 다른 342개 상세는 배치 적용 전까지 기존 공통 생활 카드 구성을 유지한다. 전체 대상과 주제는 [`breed-feature-card-rollout.md`](breed-feature-card-rollout.md)에 정리돼 있다.
+- 34개 상세는 견종별 편집 카드 구조를 적용한다. 섹션은 `견종을 이해하는 출발점`과 `<견종명>을 먼저 알아볼 세 가지`로 시작한다. 역사 섹션은 형성 시기·지역·원래 역할을 설명하고, 시작 카드에서는 그 배경이 현재 생활에서 보일 수 있는 움직임 집중·협업·알림·힘 조절·회복 같은 단서를 다룬다. 같은 역사 설명을 두 영역에서 반복하지 않는다. 피모는 견종 인식이나 반복 관리 부담의 핵심일 때 유지한다. 사용자가 남은 전체 도감 확장을 승인했으며, 다른 342개 상세는 배치 적용 전까지 기존 공통 생활 카드 구성을 유지한다. 전체 대상과 주제는 [`breed-feature-card-rollout.md`](breed-feature-card-rollout.md)에 정리돼 있다.
 - 상세 대표 이미지는 정사각형 원본과 프레임 비율을 맞춰 좌우 여백 없이 표시한다. 상세의 주요 섹션도 공통 최대 1440px 컨테이너를 사용하되 본문 문단은 별도의 읽기 폭을 유지한다. 역사 이미지는 원본 비율이 달라도 3:2 장면 프레임을 채우며, 동일 URL의 출처는 목록에 한 번만 표시한다.
 - 상세 하단의 다음 선택 영역은 별도 배경과 설명 문구 없이 `맞이할 준비하기`와 `비교 후보에 담기` 두 행동만 제공한다. 데스크톱은 체크리스트·후보 비교를 표현한 큰 3D 아이콘을 별도 배경 면 없이 위에, 실행 문구를 아래에 둔 동일 폭 카드 버튼을 대표 비교의 900px 폭에 맞춰 가운데 배치하고, 모바일은 한 열로 표시한다. 두 버튼은 같은 밝은 기본색을 사용하고 hover 또는 선택 상태에서 진한 모스색으로 전환한다. 대표 비교 다음의 관련 견종은 유사한 외형·역할·생활 조건을 비교할 수 있는 최대 3마리를 큰 이미지·`한국어 이름 (영문명)`·설명 순서의 카드로 표시하며, 데스크톱은 3열·태블릿과 모바일은 한 열로 배치한다.
 - 이름 속 견종과 호기심 탐험 화면도 탐색 탭·견종 카드·이미지 프레임에 컬러 외곽선을 사용하지 않고 배경 명도와 부드러운 그림자로 선택 상태와 카드 위계를 구분한다.
@@ -194,7 +194,7 @@ Dog Atlas(살아 있는 견종도감)는 강아지를 고려하는 사람이 외
 
 ## 8. 검증 명령과 기준
 
-- 2026-08-21 전체 도감 특징 카드 확장 승인 뒤 첫 배치로 버니즈 마운틴 독·도베르만·저먼 스피츠·셔틀랜드 시프독·오스트레일리안 셰퍼드를 추가했다. 다섯 견종의 고유 역할과 생활 의미를 구분한 1200×900 WebP 15개를 새로 제작하고, 형성 지역과 역할이 충분히 읽히도록 역사 두 문단과 짧은 계통 표기를 함께 정리했다. 전체 ESLint·TypeScript·146개 테스트와 400개 경로 프로덕션 빌드를 통과했으며, 생성된 다섯 상세 HTML에서 새 카드 제목을 확인했다.
+- 2026-08-21 전체 도감 특징 카드 확장 승인 뒤 첫 배치로 버니즈 마운틴 독·도베르만·저먼 스피츠·셔틀랜드 시프독·오스트레일리안 셰퍼드를 추가했다. 후속 편집에서 다섯 상세의 상단 계통·원래 역할을 짧은 명사형으로 통일하고 체고·몸무게를 근거가 있는 범위에서 분리했다. 역사 섹션과 겹치던 시작 카드는 현재 생활의 협업·움직임 집중·알림·힘 조절·회복 단서로 다시 썼다. 역사 장면 3개와 오스트레일리안 셰퍼드 기존 특징 장면 2개를 제거하고 현대 생활 장면 5개로 교체했다. 오스트레일리안 셰퍼드의 대표·역사·특징 이미지 다섯 장은 같은 블루멀 성견을 이미지 참조로 고정해 통일했다. ESLint·TypeScript·전체 147개 테스트와 400개 경로 프로덕션 빌드를 통과했다.
 
 - 2026-08-21 견종별 특징 카드의 편집 순서를 `견종 지식 → 생활 의미 → 비교·준비·선택`으로 명확히 했다. 29개 적용 상세의 공통 제목을 지식 중심으로 바꾸고, 일반적인 휴식·훈련 요령이 앞서던 비숑의 두 카드를 반려견으로 발전한 배경과 빠르고 가벼운 움직임 중심으로 수정했다. 캐벌리어의 긴 귀와 장식털 카드는 견종을 구별하는 특징이므로 복원했으며, 웰시 코기 펨브로크와 요크셔 테리어의 짧았던 역사는 형성 지역·작업 역할·오늘의 모습이 이어지도록 보강했다. 피모 카드는 일괄 제거하지 않고 견종 특이성과 반복 부담을 기준으로 판단한다. ESLint·TypeScript·특징 카드와 조사 테스트 9개·전체 146개 테스트를 확인했고, 전체 실행에서 기본 5초를 넘긴 기존 준비도 테스트 1개는 15초 제한 단독 실행으로 통과했다. 프로덕션 빌드는 400개 경로를 생성했다.
 

diff --git a/docs/breed-feature-card-rollout.md b/docs/breed-feature-card-rollout.md
@@ -196,7 +196,7 @@ src/content/breed-features/
 
 열 번째 확장 배치로 시바·아키타·비숑 프리제·캐벌리어 킹 찰스 스패니얼·퍼그를 추가했다. 선택과 출입 안전·큰 힘과 관계 거리·스패니얼 탐색·호흡과 더위, 피모 관리가 핵심인 견종의 관리 부담을 구분한 카드 15개를 만들었다. 후속 검수에서 시바의 대표·역사·특징 이미지 5장을 아키타보다 가볍고 작은 체형으로 교체하고, 아키타의 반복 피모 카드는 대형견 이동 동선으로 바꿨다. 캐벌리어의 긴 귀와 장식털은 견종을 구별하는 외형이자 반복 관리 부담이므로 피모 카드를 유지했다. 비숑의 앞 두 카드는 일반적인 휴식·훈련 요령보다 사람 곁의 반려견으로 자리 잡은 배경과 빠르고 가벼운 움직임을 먼저 설명하도록 고쳤다. 상세 섹션 제목도 생활 관리보다 견종 이해가 먼저 읽히도록 정리했다. 제작 기록은 [`image-prompts-japanese-companion-pug-2026-08-21.md`](image-prompts-japanese-companion-pug-2026-08-21.md)에 정리했다.
 
-사용자가 남은 전체 도감 확장을 승인한 뒤 열한 번째 배치로 버니즈 마운틴 독·도베르만·저먼 스피츠·셔틀랜드 시프독·오스트레일리안 셰퍼드를 추가했다. 농장 운반·보호 동행·다섯 바라이어티·섬 목양·미국 목장이라는 배경을 먼저 설명하고, 각 특징이 힘 조절·알림·피모·주의 전환·활동 후 회복에 어떤 의미인지 연결한 카드 15개를 만들었다. 다섯 견종의 짧았던 역사를 형성 지역과 역할 중심의 두 문단으로 보강하고 긴 계통 표기를 줄였다. 제작 기록은 [`image-prompts-swiss-german-herding-2026-08-21.md`](image-prompts-swiss-german-herding-2026-08-21.md)에 정리했다.
+사용자가 남은 전체 도감 확장을 승인한 뒤 열한 번째 배치로 버니즈 마운틴 독·도베르만·저먼 스피츠·셔틀랜드 시프독·오스트레일리안 셰퍼드를 추가했다. 후속 검수에서 형성 지역·시기·원래 역할은 역사 섹션에만 남기고, 시작 카드 15개는 현재 생활에서 보일 수 있는 협업·움직임 집중·알림·힘 조절·활동 후 회복과 의미 있는 피모·바라이어티 정보로 다시 분리했다. 계통과 원래 역할은 짧은 한국어 명사형으로 정리하고 근거가 있는 체고·몸무게는 각각 표시한다. 역사 장면을 사용하던 버니즈·도베르만·셔틀랜드 시프독 카드는 현대 생활 장면으로 바꿨으며, 오스트레일리안 셰퍼드의 대표·역사·특징 이미지 다섯 장은 같은 블루멀 성견의 배색과 얼굴 무늬를 참조 이미지로 고정해 통일했다. 제작 기록은 [`image-prompts-swiss-german-herding-2026-08-21.md`](image-prompts-swiss-german-herding-2026-08-21.md)에 정리했다.
 
 ## 10. 완료 조건
 

diff --git a/docs/decisions.md b/docs/decisions.md
@@ -316,3 +316,9 @@ Move all published feature-card data out of the detail page and into a Zod-valid
 Structure each breed detail so readers first learn what is distinctive about the breed, then consider how those traits may appear in daily life, and only afterward move to comparison, readiness, and choice. The three illustrated cards should open with breed knowledge—historical role, characteristic behavior, body structure, coat structure, or meaningful variety—not with a generic training or care instruction.
 
 Follow a breed fact with a practical implication when it helps the reader judge their own environment. Do not require or ban coat topics mechanically: retain coat when its structure, seasonal shedding, grooming burden, or role in recognizing the breed is genuinely distinctive, and prefer a stronger breed-specific subject when it is not. Keep all statements as tendencies or supported characteristics rather than a verdict that a breed will suit a particular person.
+
+# 2026-08-21 — Separate history from present-day breed clues
+
+Let the history section own chronology: when and where the breed formed, what work shaped it, and how its recognized form developed. Do not reuse those facts as the main subject of `견종을 이해하는 출발점` cards.
+
+Use the three opening cards for present-day clues that help a reader judge daily life. Where supported, connect the historical role to tendencies such as attention to movement, cooperation with people, alerting, body control, task persistence, or recovery after activity without presenting the connection as a guarantee. Keep `계통` and `원래 역할` as short Korean noun phrases, and present supported height and weight as separately labeled facts.
